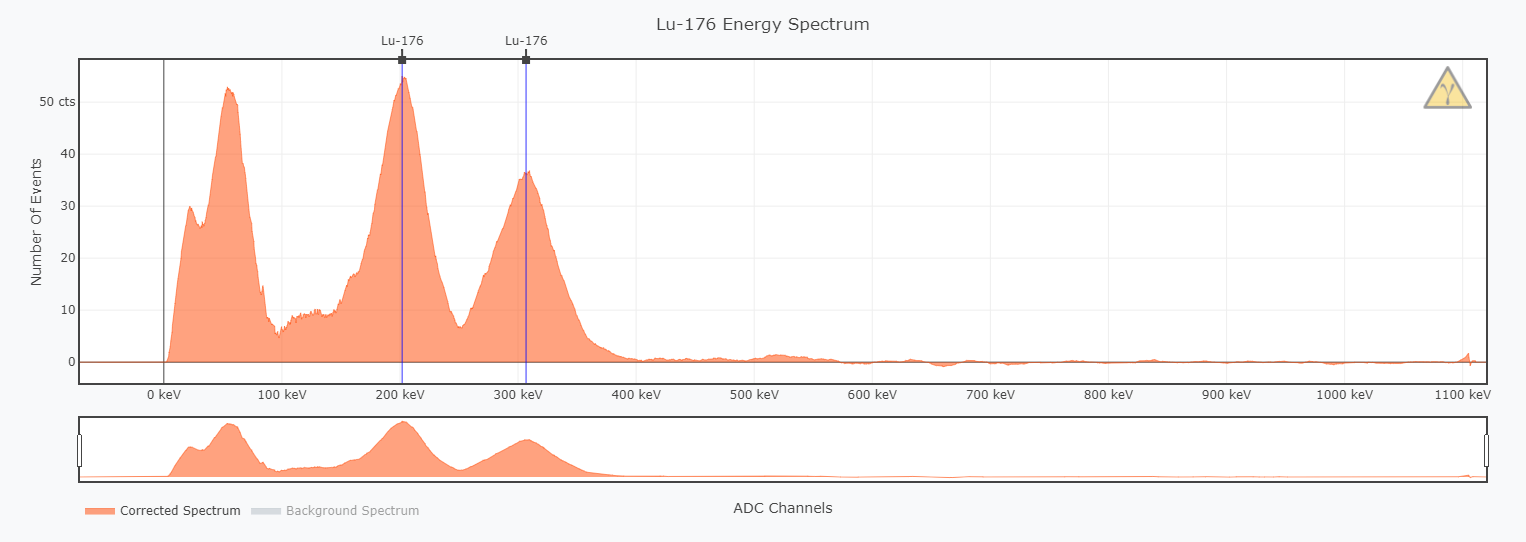
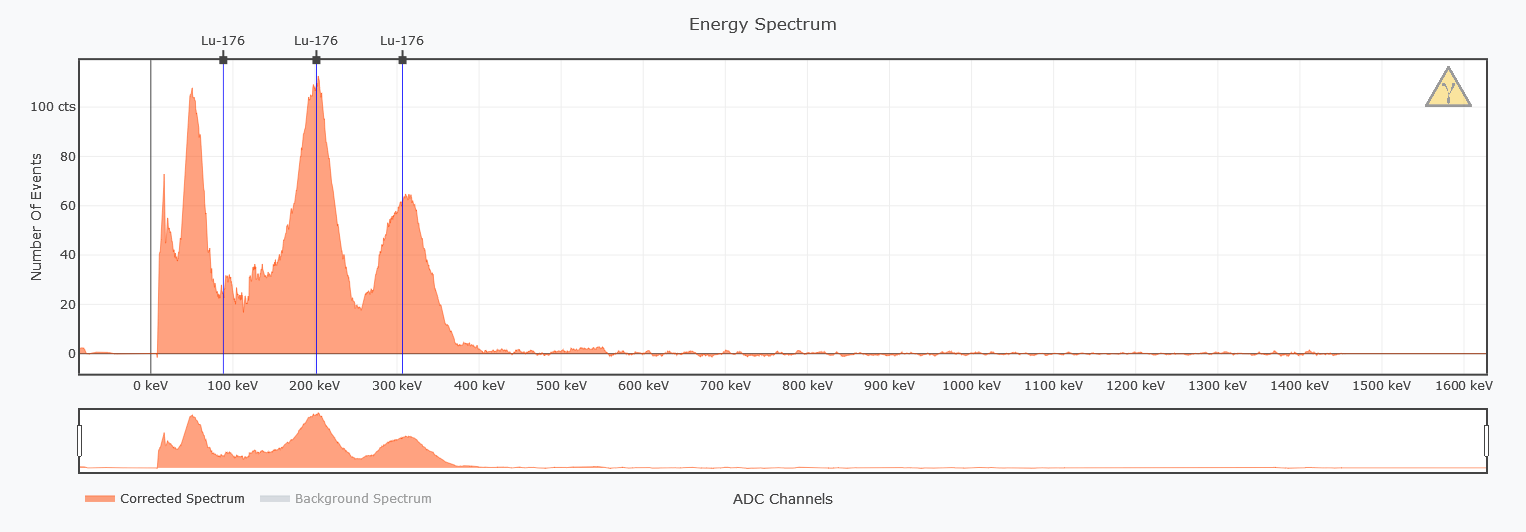
update README

diff --git a/README.md b/README.md
@@ -1,94 +1,83 @@
-# Open Scintillation Counter
+# Open Gamma Detector
 
-## This repo is still very much work in progress. I am currently working on finishing this project.
+Open hardware for a simple, yet powerful, all-in-one scintillation counter design using a popular NaI(Tl) scintillation crystal. Can be used for gamma spectroscopy while being significantly cheaper than any off-the-shelf platform.
 
-**In the meantime please enjoy this nice Lu-176 spectrum made with the (new) detector:**
+Hardware design has been done with [EasyEDA](https://easyeda.com/) and all the needed files for you to import the project as well as the schematics can be found in the `electronics` folder. There are also Gerber files available for you to go directly to the PCB manufacturing step.
 
-![Lu-176 spectrum](docs/lu-176.png)
-
-Open hardware for a simple, yet powerful, all-in-one scintillation counter design using a popular NaI(Tl)
-scintillation crystal. Can be used for gamma spectroscopy while being much cheaper than any off-the-shelf platform.
-
-Hardware design has been done mainly in EasyEDA and all the needed files for you to import the project as well as
-a schematic can be found in the `electronics` folder. There is also a gerber file available for direct PCB manufacturing.
-
-Software aims to be as simple as possible to understand and maintain; to achieve this I decided to use an off-the-shelf
-microntroller - the quite new Raspberry Pi Pico. This board can be programmed over micro USB and is powerful (i.e. fast)
-enough for the purpose and also pretty cheap.
+The software aims to be as simple as possible to understand and maintain; to achieve this I decided to use an off-the-shelf microcontroller - the [Raspberry Pi Pico](https://www.raspberrypi.com/products/raspberry-pi-pico/). This board can be programmed with the Arduino IDE over micro USB and is powerful (dual core, good ADC) enough for the purpose and also exceptionally cheap.
 
 ## Working principle
 
 <p align="center">
   <img src="docs/flow.drawio.png">
 </p>
-  
+
 ## Hardware
 
-**To do: Add PCB images.**
-
-**Note: The schematic is outdated, the most recent version will be here shortly.**
-
-This project utilizes a silicon photomultiplier (short SiPM) which is way smaller and more robust than a traditional photomultiplier
-tube and does not need a high-voltage supply. I'll link some in-depth datasheets about this particular SiPM:
+This project utilizes a silicon photomultiplier (short SiPM) which is way smaller and more robust than a traditional photomultiplier tube and does not need a high-voltage supply. Here are some very helpful in-depth datasheets about this particular SiPM:
 
 * [C-Series SiPM Sensors datasheet](https://www.onsemi.com/pdf/datasheet/microc-series-d.pdf)
 * [Linearity of the Silicon Photomultiplier](https://www.onsemi.com/pub/Collateral/AND9776-D.PDF)
 * [Introduction to the SiliconPhotomultiplier (SiPM)](https://www.onsemi.com/pub/Collateral/AND9770-D.PDF)
 * [Biasing and Readout of ON Semiconductor SiPM Sensors](https://www.onsemi.com/pub/Collateral/AND9782-D.PDF)
 
-This project consists of two PCBs - one carrier board for the SiPM (`electronics/sipm` folder) that will be mounted on top of
-your scintillation crystal. It will then be connected to the other board: the main detector (`electronics/detector` folder)
-which includes amplification, pulse detection and energy measurement.
+The hardware consists of two PCBs: one carrier board for the SiPM (`electronics/sipm` folder) that will be mounted on top of your scintillation crystal. It will then be connected to the other board: the main detector (`electronics/detector` folder) which includes amplification, pulse detection and energy measurement.
 
-The heart of the detector board is the [Raspberry Pi Pico](https://www.raspberrypi.com/products/raspberry-pi-pico/) which uses its (calibrated)
-ADC to measure the pulse amplitude (e.g. the energy) immediately after an event occurs (using an interrupt).
+The heart of the detector board is the Raspberry Pi Pico which uses its (calibrated) ADC to measure the pulse amplitude (e.g. the energy) immediately after an event occurs using an interrupt. I can really recommend you reading the datasheet or maybe also having a look at a deeper analysis of the Pico ADC:
+
+* [Raspberry Pi Pico](https://datasheets.raspberrypi.com/pico/pico-datasheet.pdf)
+* [Characterizing the Raspberry Pi Pico ADC](https://pico-adc.markomo.me/)
+
+Here are some renders of the detector PCB. Size is roughly 6x6 cm.
+
+![PCB Front View](docs/pcb_front.png)
+
+![PCB Back View](docs/pcb_back.png)
 
 ## Software
 
 ### Raspberry Pi Pico
 
-The Arduino IDE sketch can be found in `/arduino`.
+Programming is done using the Arduino IDE. The so-called "sketch" can be found in `/arduino`.
 
-To program the Pico with the Arduino IDE, you will need the following board configs:
+To program the Pico you will need the following board configs:
 
 * [Arduino-Pico](https://github.com/earlephilhower/arduino-pico)
 
-In addition, I wrote my own little library to calibrate the Pico's ADC using a simple linear calibration which is also used in the sketch:
+The installation and additional documentation can also be found there. In addition, I wrote my own little library to calibrate the Pico's ADC using a simple linear calibration which is also used in the sketch:
 
 * [Arduino-Pico-Analog-Correction](https://github.com/Phoenix1747/Arduino-Pico-Analog-Correction) ![arduino-library-badge](https://www.ardu-badge.com/badge/PicoAnalogCorrection.svg?)
 
+It can be installed by searching the name using the IDE's library manager.
+
 ### PC
 
-I'm currently working on my own version of an Web-MCA designed to allow uploading custom gamma spectrum data and also use the
-detector output directly to do some live-plotting. More info will follow.
+To get the data from the detector the serial-over-USB port is used. You can of course use any serial monitor or dump the output to a file, etc.
 
-## Example measurements
+I have also programmed a custom analyzer web-app called [Gamma MCA](https://spectrum.nuclearphoenix.xyz/) where you can import these serial output files as well as connecting straight to the serial port and plot the data live. Please head to the [repository](https://github.com/Open-Gamma-Project/Gamma-MCA) to find more specific info about this project.
 
-Data will follow when the new detector is ready.
+## Example Spectra
 
-|Sample Material|Average counts per seconds (cps)|
-|:------:|:-----------------------------------------:|
-|Background radiation, no sample|todo|
-|Am-241 (**still inside**) a regular smoke detector (0.9 micro curies)|todo|
-|5.2g LYSO scintillator (Lu-176!) |todo|
-|Uranium glaze on an electric plug (~1930/40s)|todo|
-|Wristwatch with Radium dials|todo|
-|Pitchblende (amount unknown)|todo|
+Spectrum of a tiny (~5g) LYSO scintillator showing all three distinct gamma peaks (88.34, 201.83, 306.78 keV) with an additional ~55 keV X-ray peak:
 
-## Documentation
+![Lu-176 spectrum](docs/lu-176.png)
 
-A link to the comprehensive documentation will follow. Please be patient, this is **a lot** of work :)
+Spectrum of a standard household (ionization) smoke detector. Contains roughly 0.9 µC of Am-241. Gamma peaks at 26.34 and 59.54 keV:
 
-It will also include the following...
+![Am-176 spectrum](docs/am-241.png)
 
-### Limitations and Ideas
+## Some Ideas
 
 #### Cooling the SiPM
 
-During operation all the electronics including the photomultiplier naturally slightly heat up. Due to the analysis hardware being connected only by a couple of wires in some (if low) distance all of it's heat shouldn't affect the SiPM PCB really. Also due to the SiPM being connected to a rather big copper area of the PCB it's heat too should not increase the temperature much over ambient (if at all that is). So air or water cooling alone won't improve performance significantly. However, one could cool the SiPM PCB with a peltier module to sub-ambient temperatures. SensL already provides peltier-cooled SiPMs with their [MiniSM](https://www.sensl.com/downloads/ds/DS-MiniSM.pdf) series of sensor modules. According to their [datasheet AND9770 (Figure 27)](https://www.onsemi.com/pub/Collateral/AND9770-D.PDF) every 10°C reduction in temperature decreases the dark count rate by 50%!
+During operation all the electronics including the photomultiplier naturally slightly heat up. Due to the detector board being connected only by a single pin connector all of it's heat shouldn't affect the SiPM PCB much. Also due to the SiPM being connected to a rather big copper area of the PCB it's heat should not increase the temperature much over ambient (if at all that is). So air or water cooling alone won't improve performance significantly. However, you could cool the SiPM PCB with a peltier module to sub-ambient temperatures. According to the [datasheet AND9770 (Figure 27)](https://www.onsemi.com/pub/Collateral/AND9770-D.PDF) every 10°C reduction in temperature decreases the dark count rate by 50%! But be sure to correct the overvoltage in this case as it also changes with temperature.
 
 #### Shielding Background Radiation
 
-Shielding the ambient background can be done ideally using a wide enough layer of lead (bricks) all around the detector. The SiPM and the sample can then be put into the structure to get the best measurements possible. But be sure to get "clean" lead with a low enough percentage of isotopes if you can as they too can be radioactive and introduce even more radiation to the system.
+Shielding the ambient background can be done ideally using a wide enough layer of lead (bricks) all around the detector with a thin layer of lower-Z material on the inside (to avoid backscattering). The SiPM and the sample can then be put into the structure to get the best measurements possible (low background).
 
 See Wikipedia: [Lead Castle](https://en.wikipedia.org/w/index.php?title=Lead_castle&oldid=991799816)
+
+---
+
+Thanks for reading.
